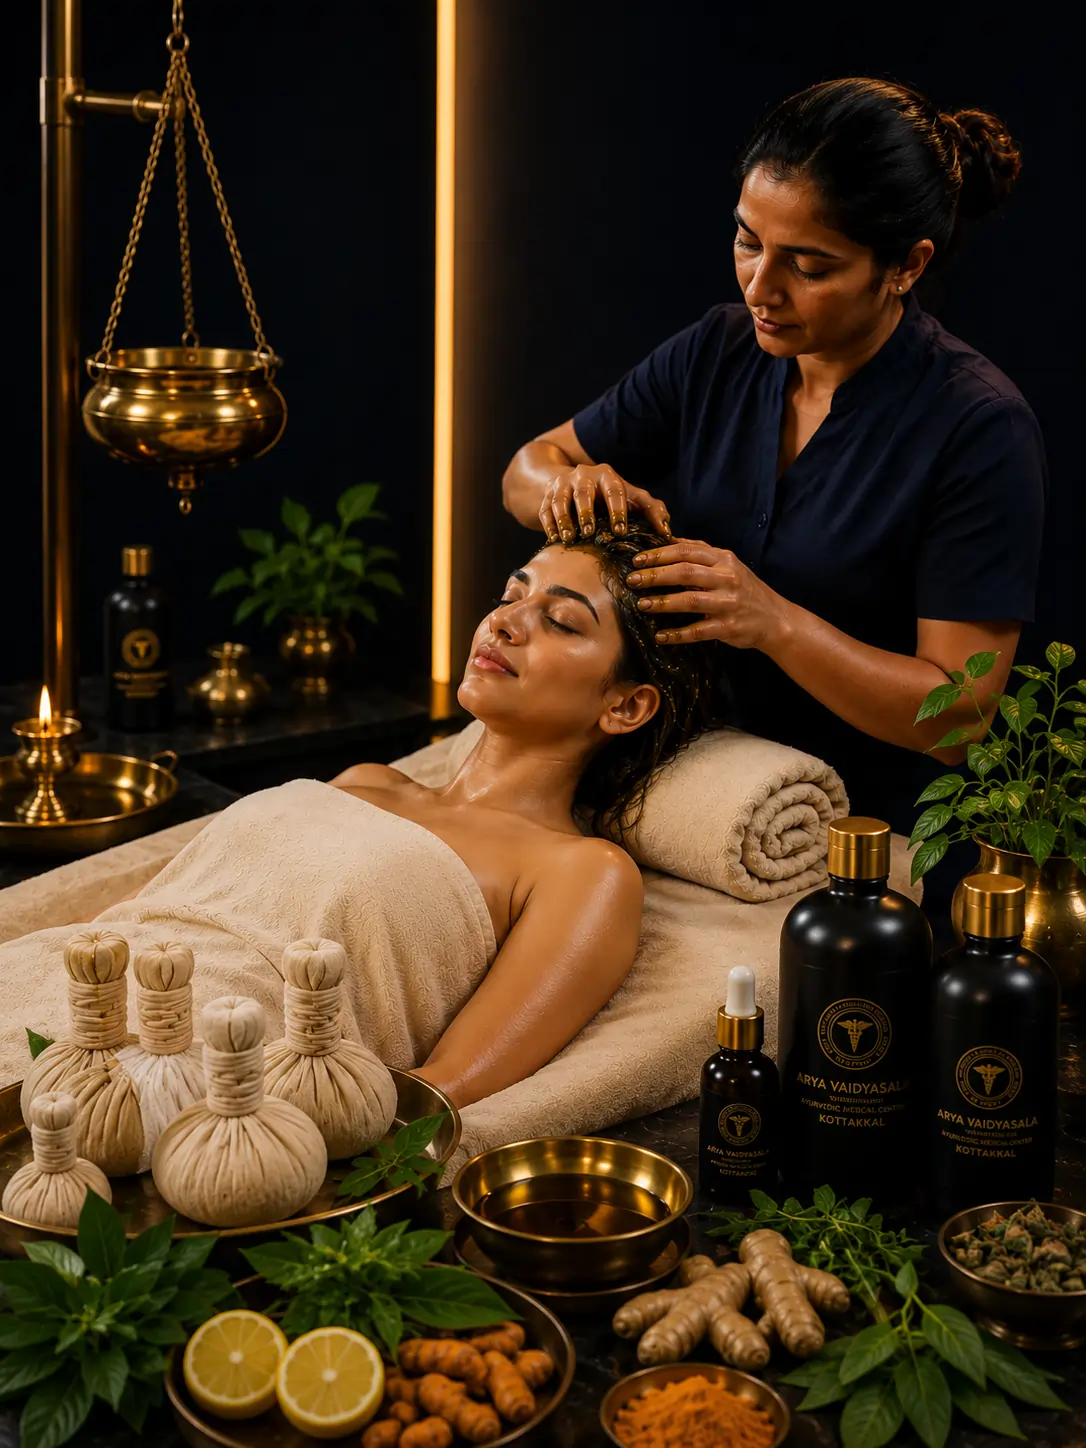
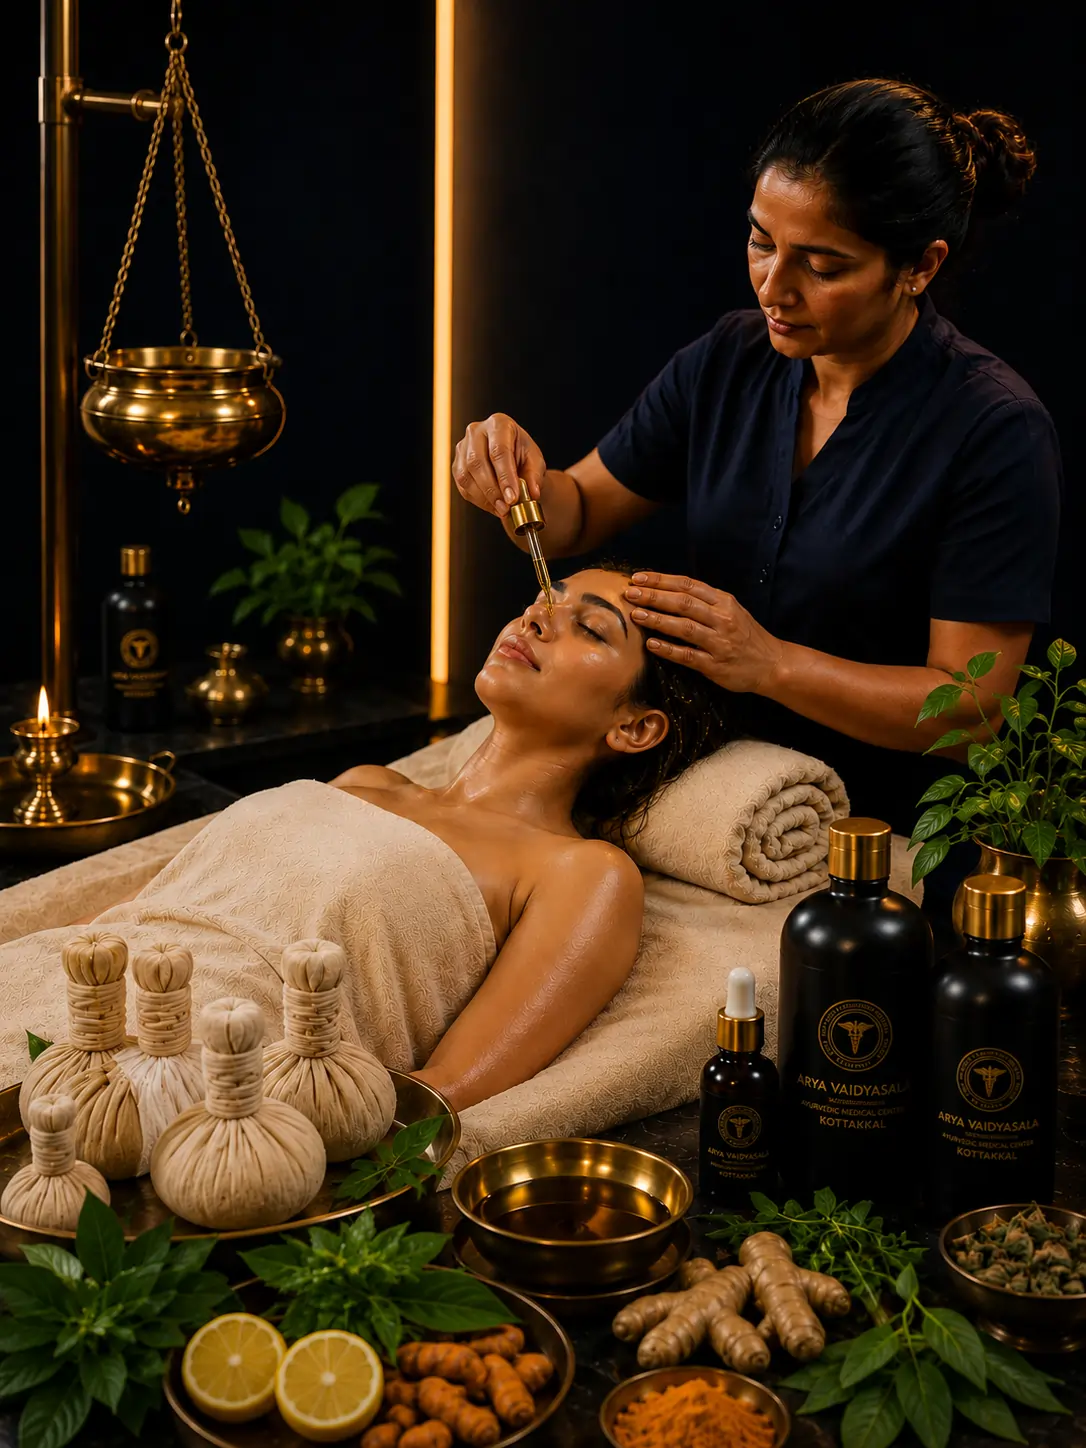
Fixed the bugs

diff --git a/src/components/sections/HomeopathyContent.tsx b/src/components/sections/HomeopathyContent.tsx
@@ -2,7 +2,12 @@
 
 import React, { useState, useRef, useCallback } from "react";
 import Image from "next/image";
-import { motion, AnimatePresence, useScroll, useTransform } from "framer-motion";
+import {
+  motion,
+  AnimatePresence,
+  useScroll,
+  useTransform,
+} from "framer-motion";
 import Container from "@/components/common/Container";
 import {
   ArrowRight,
@@ -186,7 +191,9 @@ export default function HomeopathyContent() {
   const y3 = useTransform(scrollYProgress, [0, 1], [0, 200]);
 
   const { openWhatsApp } = useWhatsApp();
-  const [expandedCondition, setExpandedCondition] = useState<string | null>(null);
+  const [expandedCondition, setExpandedCondition] = useState<string | null>(
+    null,
+  );
   const [showAllConditions, setShowAllConditions] = useState(false);
   const showMoreRef = useRef<HTMLDivElement>(null);
 
@@ -212,11 +219,14 @@ export default function HomeopathyContent() {
   return (
     <>
       {/* ── 2. Introduction & Why Homeopathy ────────────── */}
-      <section className="pt-16 pb-12 md:pt-24 md:pb-20 lg:pt-32 lg:pb-28 bg-white relative overflow-hidden">
-        <motion.div style={{ y: y1 }} className="absolute -right-[20%] top-[5%] w-[600px] h-[600px] bg-brand-gold/5 rounded-full filter blur-[150px] pointer-events-none" />
+      <section className="pt-12 pb-12 md:pt-16 md:pb-20 lg:pt-20 lg:pb-28 bg-white relative overflow-hidden">
+        <motion.div
+          style={{ y: y1 }}
+          className="absolute -right-[20%] top-[5%] w-[600px] h-[600px] bg-brand-gold/5 rounded-full filter blur-[150px] pointer-events-none"
+        />
 
         <Container className="relative z-10">
-          <div className="grid grid-cols-1 lg:grid-cols-2 gap-10 lg:gap-16 items-center mb-12 md:mb-20">
+          <div className="grid grid-cols-1 lg:grid-cols-2 gap-10 lg:gap-16 items-stretch mb-12 md:mb-20">
             {/* Text Side */}
             <motion.div
               initial={{ opacity: 0, x: -30, filter: "blur(10px)" }}
@@ -225,14 +235,18 @@ export default function HomeopathyContent() {
               transition={{ duration: 0.6, ease: "easeOut" }}
               className="text-left"
             >
-              <h2 className="text-4xl md:text-5xl lg:text-6xl font-heading font-bold text-brand-primary mb-6 md:mb-8 text-left">
+              <h2 className="text-4xl md:text-5xl lg:text-6xl font-heading font-bold text-brand-primary mb-10 md:mb-14 text-left">
                 What is{" "}
                 <span className="text-brand-gold relative inline-block">
                   Homeopathy?
                   <motion.span
                     initial={{ width: "0%" }}
                     whileInView={{ width: "100%" }}
-                    transition={{ duration: 0.8, delay: 0.3, ease: "easeInOut" }}
+                    transition={{
+                      duration: 0.8,
+                      delay: 0.3,
+                      ease: "easeInOut",
+                    }}
                     viewport={{ once: true }}
                     className="absolute -bottom-1 left-0 h-[3px] bg-brand-gold rounded-full"
                   />
@@ -253,17 +267,17 @@ export default function HomeopathyContent() {
                     &ldquo;
                   </div>
                   <p className="text-brand-primary font-heading font-medium italic text-lg md:text-xl m-0 leading-relaxed text-left relative z-10">
-                    True healing requires deeply personalized care. We bridge your
-                    physical, mental, and emotional well-being.
+                    True healing requires deeply personalized care. We bridge
+                    your physical, mental, and emotional well-being.
                   </p>
                 </div>
 
                 <p className="text-sm sm:text-base md:text-lg leading-relaxed md:leading-[1.8] font-light text-gray-600 text-left">
-                  At Kottakkal Arya Vaidyasala, our expert homeopathic physicians
-                  take the time to understand your complete constitutional
-                  profile. We meticulously curate a precise, bespoke remedy
-                  tailored exclusively to your unique journey toward optimal
-                  health.
+                  At Kottakkal Arya Vaidyasala, our expert homeopathic
+                  physicians take the time to understand your complete
+                  constitutional profile. We meticulously curate a precise,
+                  bespoke remedy tailored exclusively to your unique journey
+                  toward optimal health.
                 </p>
               </div>
             </motion.div>
@@ -274,7 +288,7 @@ export default function HomeopathyContent() {
               whileInView={{ opacity: 1, x: 0, filter: "blur(0px)" }}
               viewport={{ once: true }}
               transition={{ duration: 0.6, ease: "easeOut", delay: 0.2 }}
-              className="relative w-full aspect-[4/3] lg:aspect-square rounded-3xl overflow-hidden shadow-2xl group mt-8 lg:mt-0"
+              className="relative w-full aspect-[4/3] lg:aspect-auto lg:h-full rounded-3xl overflow-hidden shadow-2xl group mt-2 lg:mt-0 min-h-[300px]"
             >
               <div className="absolute inset-0 bg-brand-primary/5 group-hover:bg-transparent transition-colors duration-500 z-10" />
               <Image
@@ -331,8 +345,14 @@ export default function HomeopathyContent() {
         id="homeopathy-conditions"
         className="pt-6 pb-12 md:pt-12 md:pb-28 bg-brand-cream relative overflow-hidden"
       >
-        <motion.div style={{ y: y2 }} className="absolute -left-[15%] top-[20%] w-[600px] h-[600px] bg-brand-primary/[0.03] rounded-full filter blur-[150px] pointer-events-none" />
-        <motion.div style={{ y: y3 }} className="absolute right-[-10%] bottom-[10%] w-[400px] h-[400px] bg-brand-gold/[0.04] rounded-full filter blur-[120px] pointer-events-none" />
+        <motion.div
+          style={{ y: y2 }}
+          className="absolute -left-[15%] top-[20%] w-[600px] h-[600px] bg-brand-primary/[0.03] rounded-full filter blur-[150px] pointer-events-none"
+        />
+        <motion.div
+          style={{ y: y3 }}
+          className="absolute right-[-10%] bottom-[10%] w-[400px] h-[400px] bg-brand-gold/[0.04] rounded-full filter blur-[120px] pointer-events-none"
+        />
 
         <Container className="relative z-10">
           <motion.div
@@ -602,8 +622,14 @@ export default function HomeopathyContent() {
 
       {/* ── 4. CTA Banner ───────────────────────────────── */}
       <section className="py-12 md:py-24 bg-brand-primary relative overflow-hidden">
-        <motion.div style={{ y: y1 }} className="absolute -right-20 -top-20 w-72 h-72 bg-brand-gold/20 rounded-full filter blur-[80px] pointer-events-none" />
-        <motion.div style={{ y: y2 }} className="absolute -left-20 bottom-0 w-56 h-56 bg-brand-gold/10 rounded-full filter blur-[60px] pointer-events-none" />
+        <motion.div
+          style={{ y: y1 }}
+          className="absolute -right-20 -top-20 w-72 h-72 bg-brand-gold/20 rounded-full filter blur-[80px] pointer-events-none"
+        />
+        <motion.div
+          style={{ y: y2 }}
+          className="absolute -left-20 bottom-0 w-56 h-56 bg-brand-gold/10 rounded-full filter blur-[60px] pointer-events-none"
+        />
 
         <Container className="relative z-10">
           <motion.div

diff --git a/src/components/layout/Footer.tsx b/src/components/layout/Footer.tsx
@@ -152,32 +152,48 @@ export default function Footer() {
               Our Expertise
               <span className="w-12 h-0.5 bg-brand-gold ml-3 rounded-full opacity-50 shrink-0"></span>
             </h4>
-            <ul className="flex flex-col space-y-3">
-              {treatments.slice(0, 6).map((treatment) => (
-                <li key={treatment.id}>
-                  <Link
-                    href={`/our-treatments#${treatment.id}`}
-                    className="text-black hover:text-brand-primary text-base font-medium transition-colors flex items-center group"
-                  >
-                    <ChevronRight className="w-4 h-4 mr-2 text-brand-primary group-hover:text-brand-gold group-hover:translate-x-1 transition-all duration-300 shrink-0" />
-                    <span className="group-hover:translate-x-1 transition-transform duration-300 line-clamp-1">
-                      {treatment.title}
-                    </span>
-                  </Link>
-                </li>
-              ))}
-              <li>
+            <div className="flex flex-col">
+              {/* 1. Homeopathy Category */}
+              <div className="mb-5">
                 <Link
                   href="/homeopathy"
-                  className="text-black hover:text-brand-primary text-base font-medium transition-colors flex items-center group"
+                  className="text-black hover:text-brand-primary text-base font-bold transition-colors flex items-center group"
                 >
-                  <ChevronRight className="w-4 h-4 mr-2 text-brand-primary group-hover:text-brand-gold group-hover:translate-x-1 transition-all duration-300 shrink-0" />
-                  <span className="group-hover:translate-x-1 transition-transform duration-300 line-clamp-1">
+                  <ChevronRight className="w-4 h-4 mr-2 text-brand-gold group-hover:translate-x-1 transition-all duration-300 shrink-0" />
+                  <span className="group-hover:translate-x-1 transition-transform duration-300">
                     Homeopathy
                   </span>
                 </Link>
-              </li>
-            </ul>
+              </div>
+
+              {/* 2. Ayurveda Category */}
+              <div>
+                <Link
+                  href="/our-treatments"
+                  className="text-black hover:text-brand-primary text-base font-bold transition-colors flex items-center group mb-4"
+                >
+                  <ChevronRight className="w-4 h-4 mr-2 text-brand-gold group-hover:translate-x-1 transition-all duration-300 shrink-0" />
+                  <span className="group-hover:translate-x-1 transition-transform duration-300">
+                    Ayurveda
+                  </span>
+                </Link>
+                <ul className="flex flex-col space-y-3 pl-6 border-l-2 border-brand-gold/10 ml-[7px]">
+                  {treatments.slice(0, 5).map((treatment) => (
+                    <li key={treatment.id}>
+                      <Link
+                        href={`/our-treatments#${treatment.id}`}
+                        className="text-gray-700 hover:text-brand-primary text-sm font-medium transition-colors flex items-center group"
+                      >
+                        <div className="w-1.5 h-1.5 rounded-full bg-brand-gold/40 mr-3 group-hover:bg-brand-gold transition-colors shrink-0 -ml-[25px]" />
+                        <span className="group-hover:translate-x-1 transition-transform duration-300 line-clamp-1">
+                          {treatment.title}
+                        </span>
+                      </Link>
+                    </li>
+                  ))}
+                </ul>
+              </div>
+            </div>
           </div>
 
           {/* Column 4: Contact Info */}

diff --git a/src/sections/InsuranceMarquee.tsx b/src/sections/InsuranceMarquee.tsx
@@ -12,7 +12,6 @@ const insuranceLogos = [
   "daman-logo.webp",
   "dubai-insurance.webp",
   "gig-logo.webp",
-  "idmed-logo.webp",
   "inayah-logo.webp",
   "mednet-logo.webp",
   "metlife-logo.webp",
@@ -22,9 +21,7 @@ const insuranceLogos = [
   "nextcare-logo.webp",
   "orient-logo.webp",
   "qic-logo.webp",
-  "rak-logo.webp",
   "sukoon-logo.webp",
-  "takaful-logo.webp",
 ];
 
 export default function InsuranceMarquee() {
@@ -33,8 +30,8 @@ export default function InsuranceMarquee() {
       <Container className="relative z-20 w-full mb-8">
         <SectionHeading
           title="Ayurvedic Treatments Covered by Insurance"
-          subtitle="Direct Billing & Coverage Partners"
-          description="Kottakkal Arya Vaidyasala partners with leading health insurance providers in Dubai and the UAE to ensure your authentic Ayurvedic healing journey is smooth, accessible, and fully covered."
+          subtitle="Our Insurance Partners"
+          description="Kottakkal Arya Vaidyasala is recognized by leading health insurance networks in the UAE, supporting your authentic Ayurvedic healing journey."
           align="center"
         />
       </Container>
@@ -71,8 +68,7 @@ export default function InsuranceMarquee() {
                         : filename.includes("qic") ||
                             filename.includes("mednet")
                           ? "scale-[0.85] group-hover:scale-[0.95] p-3 md:p-5"
-                          : filename.includes("idmed") ||
-                              filename.includes("metlife") ||
+                          : filename.includes("metlife") ||
                               filename.includes("gig") ||
                               filename.includes("inayah")
                             ? "scale-[1.25] group-hover:scale-[1.35] p-2 md:p-3"

diff --git a/src/sections/FeaturedTreatments.tsx b/src/sections/FeaturedTreatments.tsx
@@ -114,7 +114,9 @@ export default function FeaturedTreatments() {
                     >
                       {treatment.title}
                     </h3>
-                    <p className={`text-xs sm:text-sm font-semibold mb-4 ${isNavy ? "text-brand-gold" : "text-brand-primary"}`}>
+                    <p
+                      className={`text-xs sm:text-sm font-semibold mb-4 ${isNavy ? "text-brand-gold" : "text-brand-primary"}`}
+                    >
                       {treatment.subtitle}
                     </p>
                     <p
@@ -123,7 +125,10 @@ export default function FeaturedTreatments() {
                       {treatment.description}
                     </p>
                     <div className="mt-auto pt-5 border-t border-brand-gold/20 flex justify-center">
-                      <Link href={`/our-treatments#treatment-${treatment.id}`} className="flex justify-center">
+                      <Link
+                        href={`/our-treatments#treatment-${treatment.id}`}
+                        className="flex justify-center"
+                      >
                         <PrimaryButton
                           icon={<ArrowRight className="w-4 h-4" />}
                           className={`px-8 py-3 text-sm transition-all duration-300 shadow-none ${

diff --git a/src/data/treatments.ts b/src/data/treatments.ts
@@ -448,7 +448,7 @@ export const treatments: Treatment[] = [
       "Relieves accumulated stress"
     ],
     duration: "45 – 60 Minutes",
-    imagePath: "/images/treatments/abhyangam-v2.webp",
+    imagePath: "/images/treatments/nasyam-v2.webp",
     iconName: "Leaf",
     featured: true
   },
